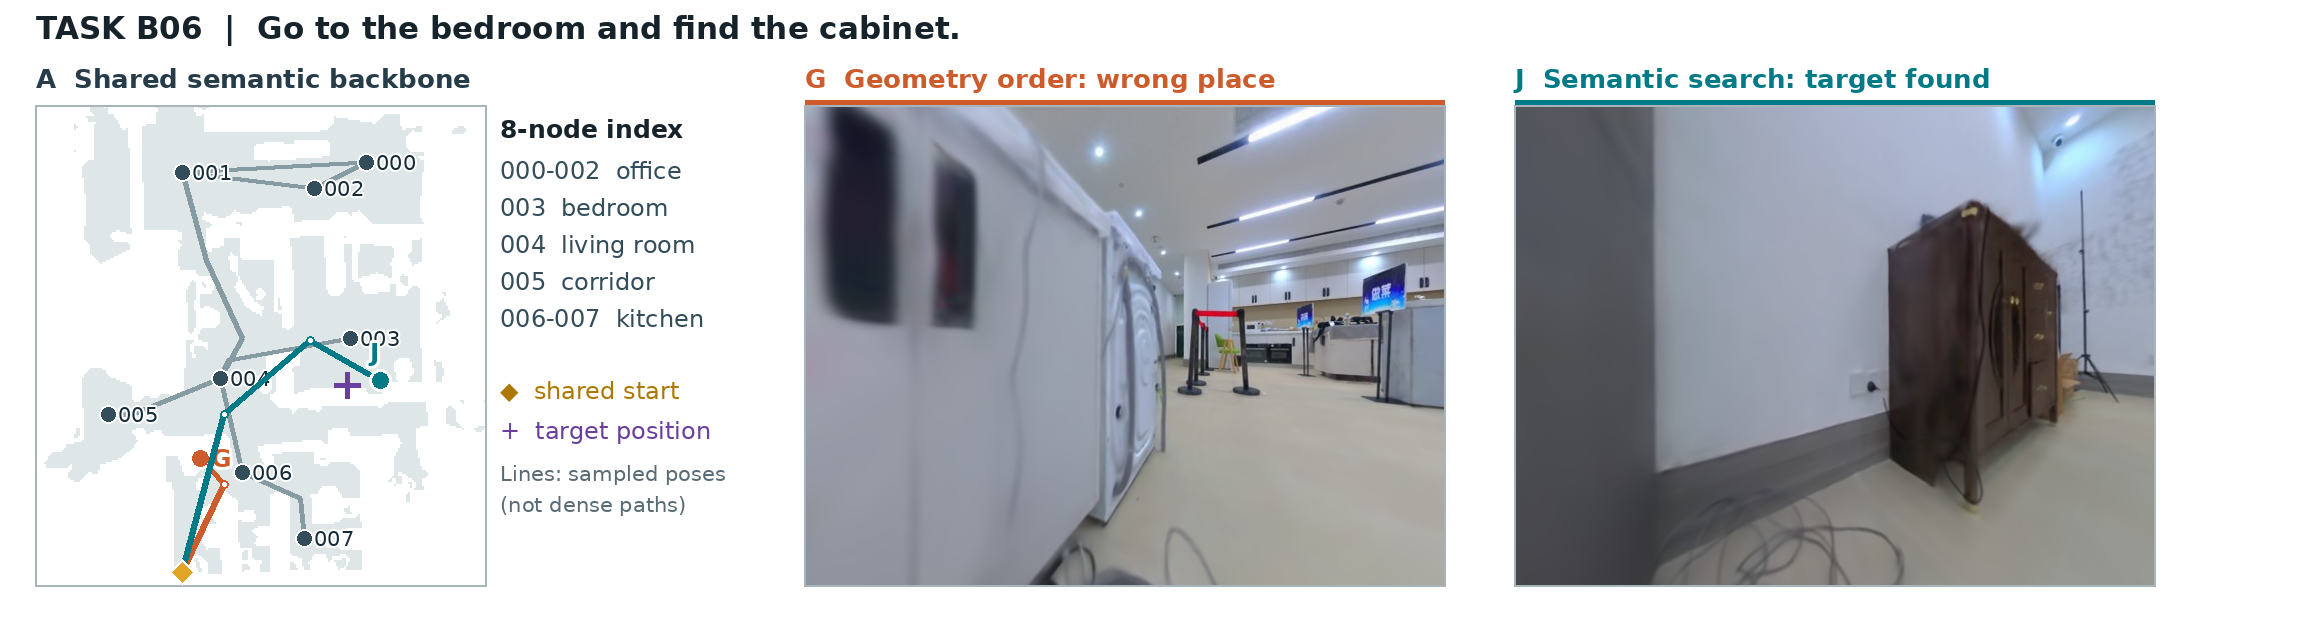
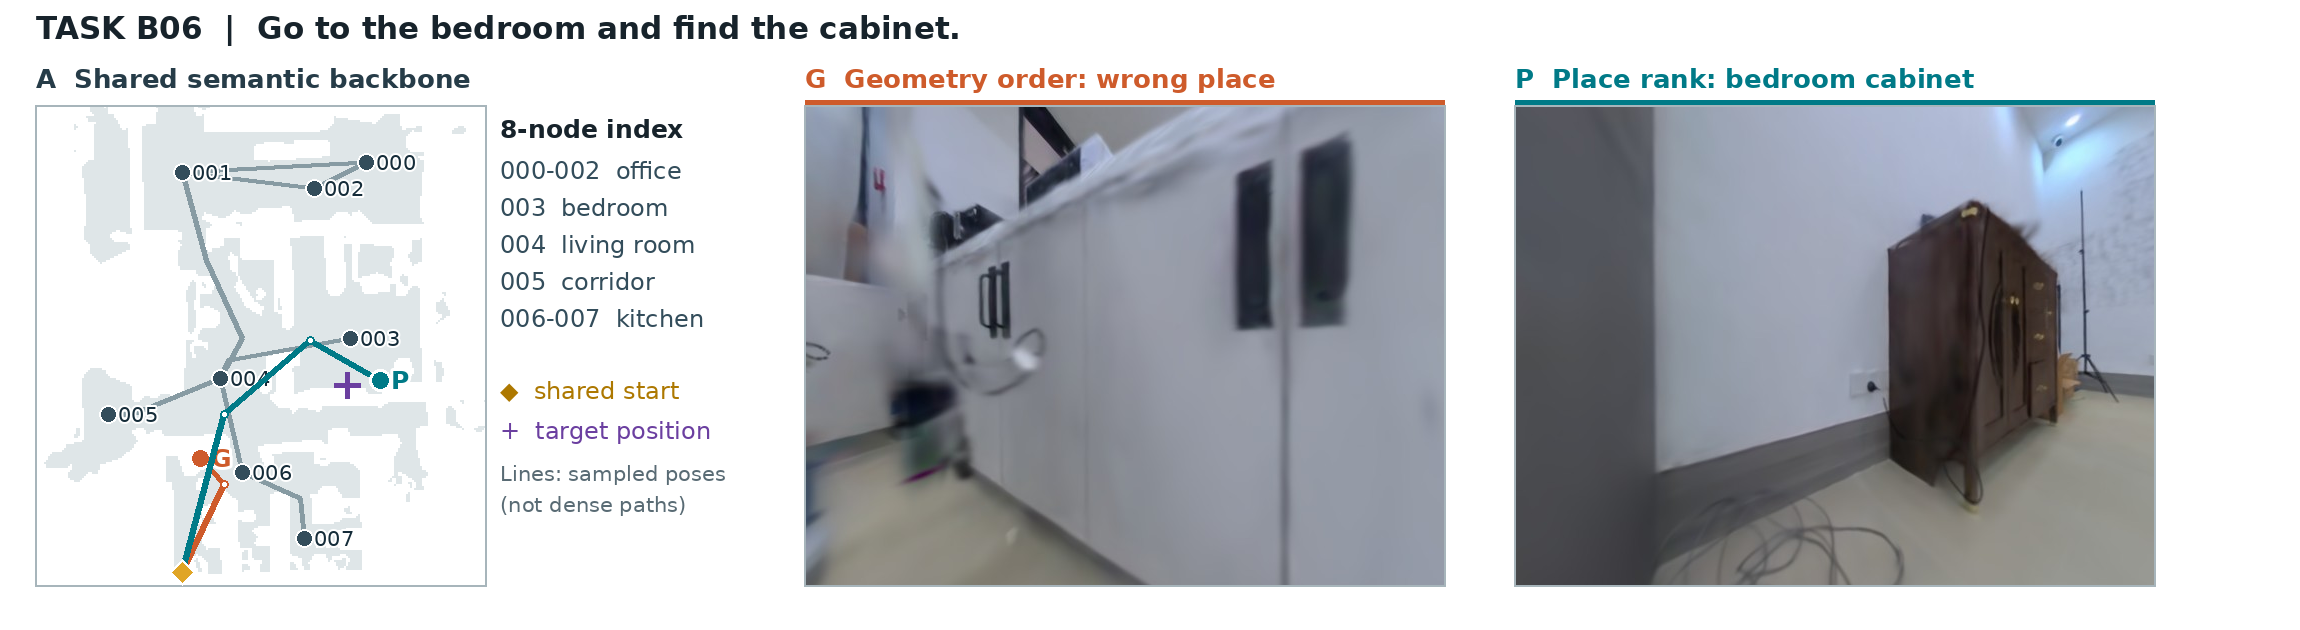
Use B06 wrong-place cabinet case in paper demo

Changed region(s): [[0.3396, 0.1508, 0.6483, 0.9349], [0.6483, 0.0905, 0.8643, 0.1508], [0.1543, 0.5429, 0.1852, 0.6032]]

diff --git a/docs/index.html b/docs/index.html
@@ -34,8 +34,8 @@
         </dl>
       </div>
       <figure class="hero-visual">
-        <img src="./assets/frozen-eight-node-backbone.png" alt="Frozen eight-node semantic backbone with the L01 paired task start, target, and terminal observation poses">
-        <figcaption>Actual frozen eight-node topology and L01 paired task evidence. Lines connect saved observation poses, not dense trajectories.</figcaption>
+        <img src="./assets/frozen-eight-node-backbone.png" alt="Frozen eight-node semantic backbone with the B06 paired task start, target, and terminal observation poses">
+        <figcaption>Actual frozen eight-node topology and B06 paired task evidence. Lines connect saved observation poses, not dense trajectories.</figcaption>
       </figure>
     </div>
   </header>

diff --git a/docs/media/README.md b/docs/media/README.md
@@ -3,11 +3,11 @@
 The three current publication visuals are from the frozen
 50-case, five-policy evaluation on the first-floor exhibition scene:
 
-- L01: graph-distance G no completion vs. place-guided P valid living-room washing-machine completion;
+- B06: graph-distance G wrong-place kitchen-cabinet stop vs. place-guided P valid bedroom-cabinet completion;
 - O09: object-only O wrong-room robot vs. joint J valid office-robot completion;
 - L10: structural J-V false stop vs. hierarchical J valid sofa-side-cabinet completion.
 
-`case-b06.png` is retained as an earlier qualitative example, but is no longer
+`case-l01.png` is retained as an earlier qualitative example, but is no longer
 one of the three main-paper comparisons.
 
 Each visual is generated from the frozen eight-node topology, recorded
